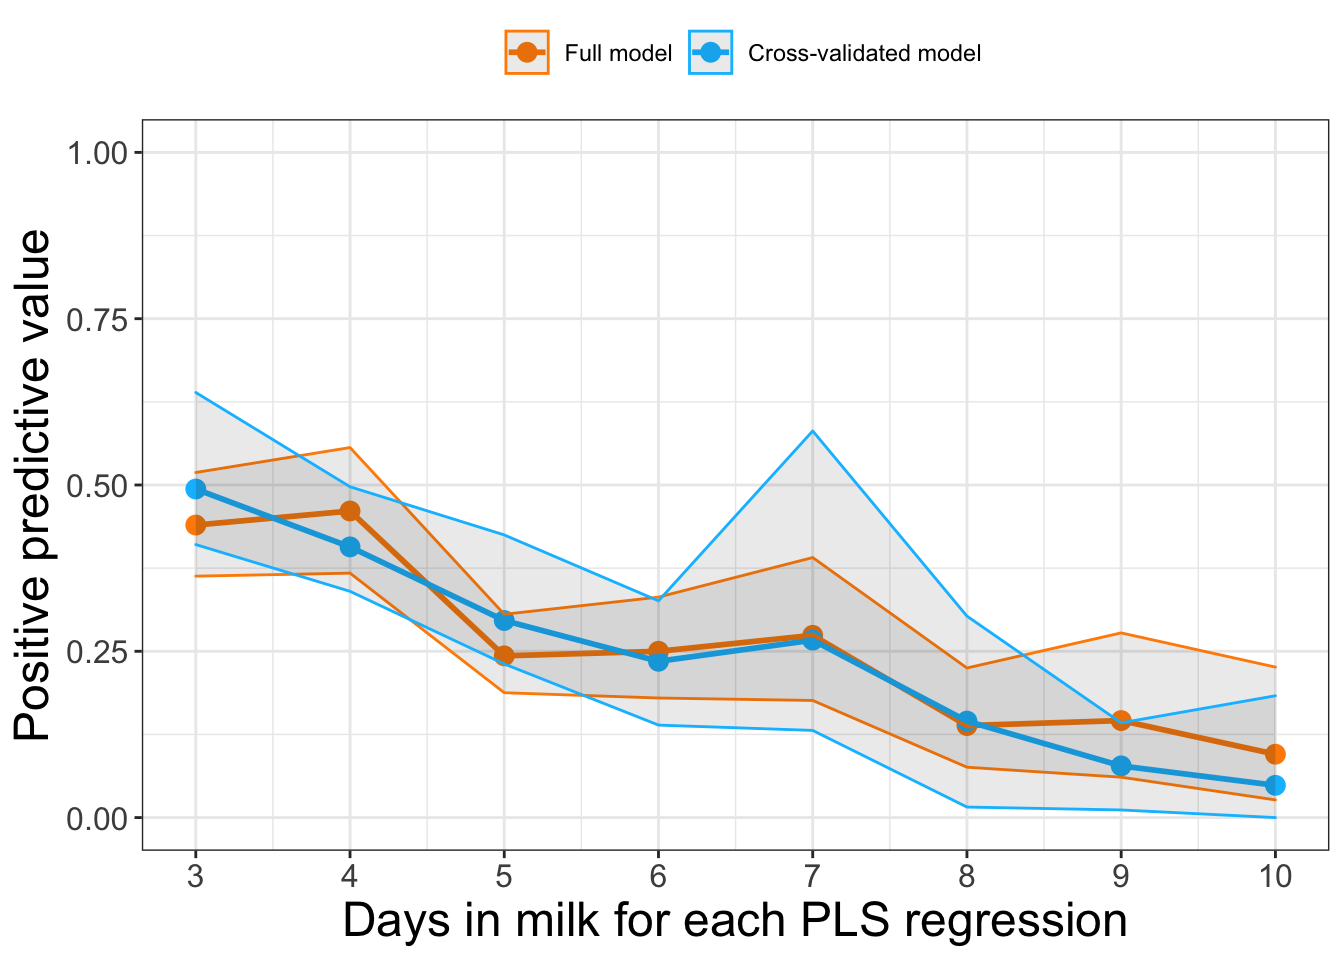
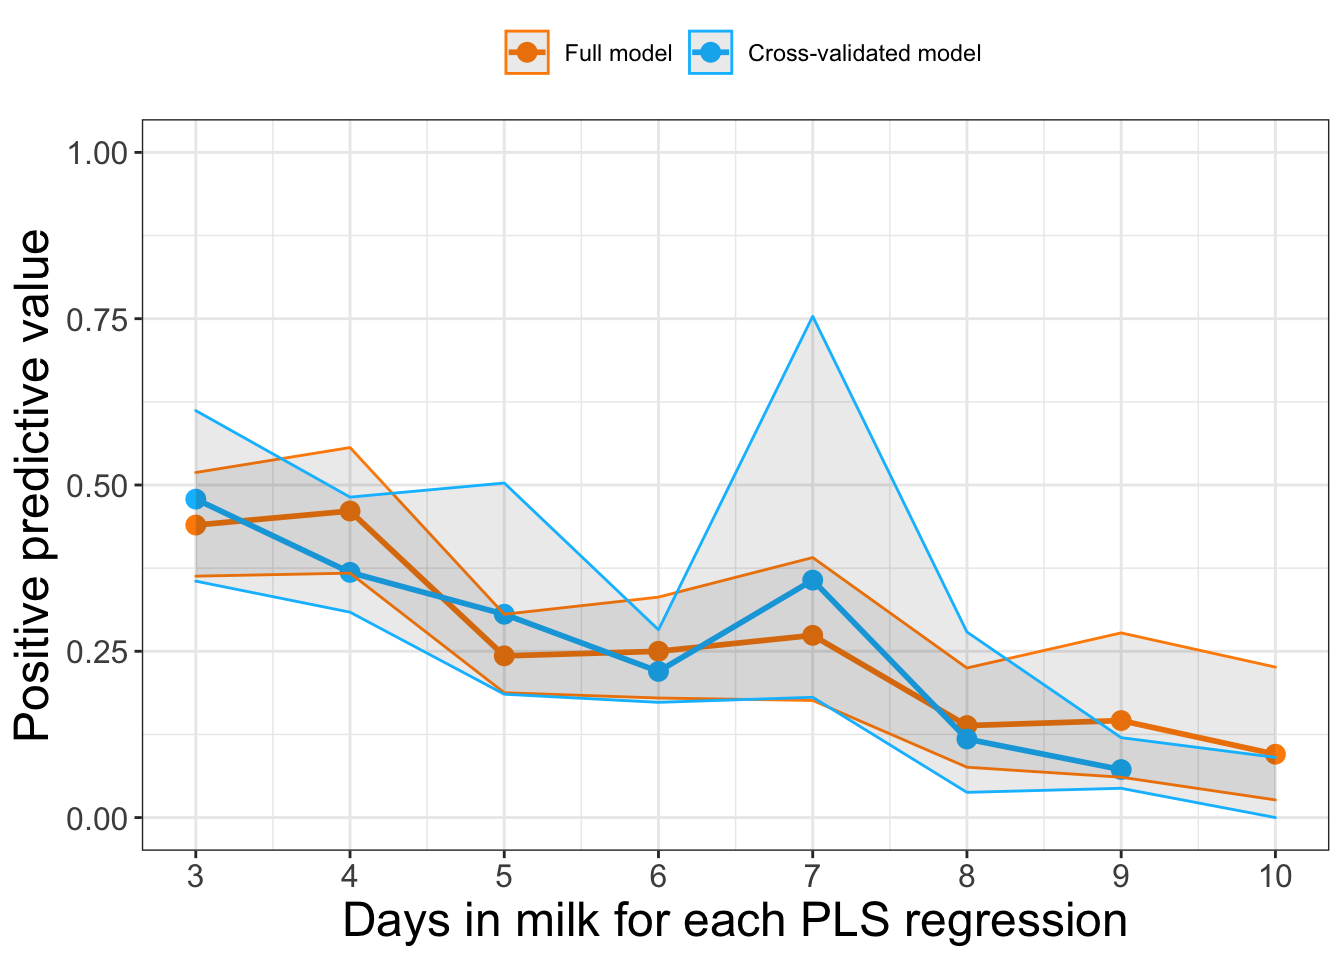
changing to 10 simulations

diff --git a/index.html b/index.html
@@ -439,57 +439,27 @@ df = df %&gt;%
 <div id="number-of-cows-enrolled" class="section level3">
 <h3>Number of cows enrolled</h3>
 <table>
-<caption>
-Number of cows enrolled in study
-</caption>
+<caption>Number of cows enrolled in study</caption>
 <thead>
-<tr>
-<th style="text-align:center;">
-Parity 1
-</th>
-<th style="text-align:center;">
-Parity 2
-</th>
-<th style="text-align:center;">
-Parity 3
-</th>
-<th style="text-align:center;">
-Parity 4
-</th>
-<th style="text-align:center;">
-Parity 5
-</th>
-<th style="text-align:center;">
-Parity 6
-</th>
-<th style="text-align:center;">
-Parity 7
-</th>
+<tr class="header">
+<th align="center">Parity 1</th>
+<th align="center">Parity 2</th>
+<th align="center">Parity 3</th>
+<th align="center">Parity 4</th>
+<th align="center">Parity 5</th>
+<th align="center">Parity 6</th>
+<th align="center">Parity 7</th>
 </tr>
 </thead>
 <tbody>
-<tr>
-<td style="text-align:center;">
-306
-</td>
-<td style="text-align:center;">
-274
-</td>
-<td style="text-align:center;">
-232
-</td>
-<td style="text-align:center;">
-117
-</td>
-<td style="text-align:center;">
-58
-</td>
-<td style="text-align:center;">
-25
-</td>
-<td style="text-align:center;">
-12
-</td>
+<tr class="odd">
+<td align="center">306</td>
+<td align="center">274</td>
+<td align="center">232</td>
+<td align="center">117</td>
+<td align="center">58</td>
+<td align="center">25</td>
+<td align="center">12</td>
 </tr>
 </tbody>
 </table>
@@ -499,63 +469,29 @@ Parity 7
 <div id="number-of-samples-at-each-timepoint" class="section level3">
 <h3>Number of samples at each timepoint</h3>
 <table>
-<caption>
-Number of samples at each DIM
-</caption>
+<caption>Number of samples at each DIM</caption>
 <thead>
-<tr>
-<th style="text-align:center;">
-3 DIM
-</th>
-<th style="text-align:center;">
-4 DIM
-</th>
-<th style="text-align:center;">
-5 DIM
-</th>
-<th style="text-align:center;">
-6 DIM
-</th>
-<th style="text-align:center;">
-7 DIM
-</th>
-<th style="text-align:center;">
-8 DIM
-</th>
-<th style="text-align:center;">
-9 DIM
-</th>
-<th style="text-align:center;">
-10 DIM
-</th>
+<tr class="header">
+<th align="center">3 DIM</th>
+<th align="center">4 DIM</th>
+<th align="center">5 DIM</th>
+<th align="center">6 DIM</th>
+<th align="center">7 DIM</th>
+<th align="center">8 DIM</th>
+<th align="center">9 DIM</th>
+<th align="center">10 DIM</th>
 </tr>
 </thead>
 <tbody>
-<tr>
-<td style="text-align:center;">
-465
-</td>
-<td style="text-align:center;">
-549
-</td>
-<td style="text-align:center;">
-579
-</td>
-<td style="text-align:center;">
-562
-</td>
-<td style="text-align:center;">
-523
-</td>
-<td style="text-align:center;">
-506
-</td>
-<td style="text-align:center;">
-409
-</td>
-<td style="text-align:center;">
-355
-</td>
+<tr class="odd">
+<td align="center">465</td>
+<td align="center">549</td>
+<td align="center">579</td>
+<td align="center">562</td>
+<td align="center">523</td>
+<td align="center">506</td>
+<td align="center">409</td>
+<td align="center">355</td>
 </tr>
 </tbody>
 </table>
@@ -666,63 +602,29 @@ AUC.high[8] = ci.auc(df10$sick, df10$predict.prob, conf.level = 0.95)[3]</code><
 <hr />
 <p><br></p>
 <table>
-<caption>
-Area under ROC curve for PLS model at each DIM
-</caption>
+<caption>Area under ROC curve for PLS model at each DIM</caption>
 <thead>
-<tr>
-<th style="text-align:center;">
-3 DIM
-</th>
-<th style="text-align:center;">
-4 DIM
-</th>
-<th style="text-align:center;">
-5 DIM
-</th>
-<th style="text-align:center;">
-6 DIM
-</th>
-<th style="text-align:center;">
-7 DIM
-</th>
-<th style="text-align:center;">
-8 DIM
-</th>
-<th style="text-align:center;">
-9 DIM
-</th>
-<th style="text-align:center;">
-10 DIM
-</th>
+<tr class="header">
+<th align="center">3 DIM</th>
+<th align="center">4 DIM</th>
+<th align="center">5 DIM</th>
+<th align="center">6 DIM</th>
+<th align="center">7 DIM</th>
+<th align="center">8 DIM</th>
+<th align="center">9 DIM</th>
+<th align="center">10 DIM</th>
 </tr>
 </thead>
 <tbody>
-<tr>
-<td style="text-align:center;">
-0.8173998
-</td>
-<td style="text-align:center;">
-0.805677
-</td>
-<td style="text-align:center;">
-0.8195109
-</td>
-<td style="text-align:center;">
-0.8251451
-</td>
-<td style="text-align:center;">
-0.84375
-</td>
-<td style="text-align:center;">
-0.7341346
-</td>
-<td style="text-align:center;">
-0.7379747
-</td>
-<td style="text-align:center;">
-0.7409942
-</td>
+<tr class="odd">
+<td align="center">0.8173998</td>
+<td align="center">0.805677</td>
+<td align="center">0.8195109</td>
+<td align="center">0.8251451</td>
+<td align="center">0.84375</td>
+<td align="center">0.7341346</td>
+<td align="center">0.7379747</td>
+<td align="center">0.7409942</td>
 </tr>
 </tbody>
 </table>
@@ -1275,8 +1177,11 @@ for (i in 1:num.sim) {
   cv.npv[i] = as.numeric(m$byClass[4])
   cv.auc[i] = m$auc
   
-}
-cv.avg.sens[8] = mean(cv.sens)
+}</code></pre>
+<pre><code>## Warning in confusionMatrix.default(as.factor(testing.set$test.result), reference =
+## as.factor(testing.set$sick), : Levels are not in the same order for reference and data. Refactoring data
+## to match.</code></pre>
+<pre class="r"><code>cv.avg.sens[8] = mean(cv.sens)
 cv.sens.low[8] = quantile(cv.sens, probs = 2.5/100, na.rm = T)
 cv.sens.high[8] = quantile(cv.sens, probs = 97.5/100, na.rm = T)
 
@@ -1318,6 +1223,8 @@ cv.auc.high[8] = quantile(cv.auc, probs = 97.5/100, na.rm = T)</code></pre>
 <div id="positive-predictive-value-plot" class="section level5">
 <h5>Positive predictive value plot</h5>
 <hr />
+<pre><code>## Warning: Removed 1 rows containing missing values (geom_point).</code></pre>
+<pre><code>## Warning: Removed 1 row(s) containing missing values (geom_path).</code></pre>
 <p><img src="index_files/figure-html/unnamed-chunk-16-1.png" width="672" /></p>
 <p><br></p>
 </div>
